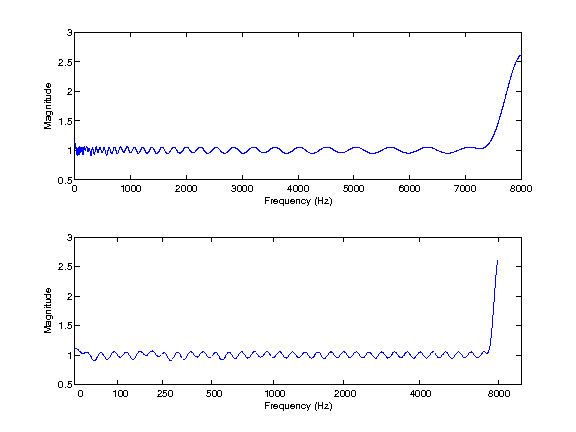
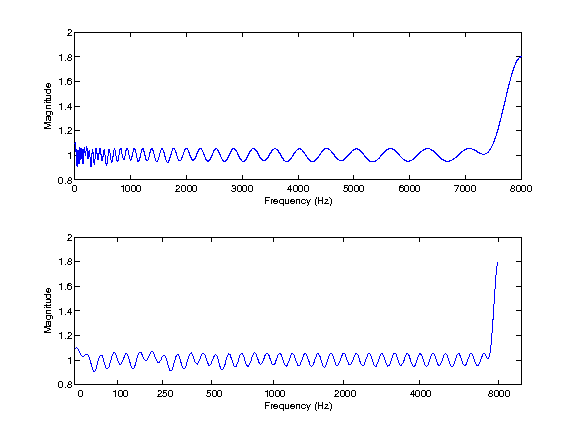
Updated doc for 2.2.0

diff --git a/doc/filterbank/audfilters_code.html b/doc/filterbank/audfilters_code.html
@@ -220,7 +220,10 @@ href="https://cdnjs.cloudflare.com/ajax/libs/bootstrap-select/1.6.5/css/bootstra
 <span class="c">%     Acoustics, Speech, and Signal Processing (ICASSP 2013), pages 498--502,</span>
 <span class="c">%     Vancouver, Canada, May 2013. IEEE.</span>
 <span class="c">%     </span>
-<span class="c">%   [DO NOT FORGET TO ADD NEW REFERENCE]</span>
+<span class="c">%     T. Necciari, N. Holighaus, P. Balazs, Z. Průša, and P. Majdak. Can</span>
+<span class="c">%     frames provide gammatone filter banks with perfect reconstruction?</span>
+<span class="c">%     submitted.</span>
+<span class="c">%     </span>
 <span class="c">%</span>
 <span class="c">%   Url: http://ltfat.github.io/doc/filterbank/audfilters.html</span>
 
@@ -273,8 +276,9 @@ href="https://cdnjs.cloudflare.com/ajax/libs/bootstrap-select/1.6.5/css/bootstra
 <span class="c">% If there is such window, replace cell with function name so that </span>
 <span class="c">% ltfatarghelper does not complain</span>
 <span class="k">if</span> <span class="o">~</span><span class="nb">isempty</span><span class="p">(</span><span class="n">candCellId</span><span class="p">)</span> <span class="o">&amp;&amp;</span> <span class="n">any</span><span class="p">(</span><span class="n">candCellId</span><span class="p">)</span>
-    <span class="n">winCell</span> <span class="p">=</span> <span class="n">varargin</span><span class="p">{</span><span class="n">candCellId</span><span class="p">(</span><span class="k">end</span><span class="p">)};</span>
-    <span class="n">varargin</span><span class="p">{</span><span class="n">candCellId</span><span class="p">}</span> <span class="p">=</span> <span class="p">[];</span>
+    <span class="n">candCellIdLast</span> <span class="p">=</span> <span class="nb">find</span><span class="p">(</span><span class="n">candCellId</span><span class="p">,</span><span class="mi">1</span><span class="p">,</span><span class="s">&#39;last&#39;</span><span class="p">);</span>
+    <span class="n">winCell</span> <span class="p">=</span> <span class="n">varargin</span><span class="p">{</span><span class="n">candCellIdLast</span><span class="p">};</span>
+    <span class="n">varargin</span><span class="p">(</span><span class="n">candCellId</span><span class="p">)</span> <span class="p">=</span> <span class="p">[];</span> <span class="c">% But remove all</span>
     <span class="n">varargin</span><span class="p">{</span><span class="k">end</span><span class="o">+</span><span class="mi">1</span><span class="p">}</span> <span class="p">=</span> <span class="n">winCell</span><span class="p">{</span><span class="mi">1</span><span class="p">};</span>
 <span class="k">end</span>
 
@@ -385,6 +389,10 @@ href="https://cdnjs.cloudflare.com/ajax/libs/bootstrap-select/1.6.5/css/bootstra
 <span class="k">end</span>
 <span class="n">innerChanNum</span> <span class="p">=</span> <span class="n">innerChanNum</span><span class="o">-</span><span class="n">count</span><span class="p">;</span>
 
+<span class="k">if</span> <span class="n">fmax</span> <span class="o">&lt;</span><span class="p">=</span> <span class="n">fmin</span> <span class="o">||</span> <span class="n">fmin</span> <span class="o">&gt;</span> <span class="n">fs</span><span class="o">/</span><span class="mi">4</span> <span class="o">||</span> <span class="n">fmax</span> <span class="o">&lt;</span> <span class="n">fs</span><span class="o">/</span><span class="mi">4</span>
+    <span class="n">error</span><span class="p">([</span><span class="s">&#39;%s: Bad combination of fs, fmax and fmin.&#39;</span><span class="p">],</span><span class="n">upper</span><span class="p">(</span><span class="n">mfilename</span><span class="p">));</span>
+<span class="k">end</span>
+
 <span class="n">fc</span><span class="p">=</span><span class="n">audspace</span><span class="p">(</span><span class="n">fmin</span><span class="p">,</span><span class="n">fmax</span><span class="p">,</span><span class="n">innerChanNum</span><span class="p">,</span><span class="n">flags</span><span class="p">.</span><span class="n">audscale</span><span class="p">).</span><span class="s">&#39;;</span>
 <span class="s">fc = [0;fc;fs/2];</span>
 <span class="s">M2 = innerChanNum+2;</span>
@@ -401,15 +409,15 @@ href="https://cdnjs.cloudflare.com/ajax/libs/bootstrap-select/1.6.5/css/bootstra
     
     <span class="c">% Generate lowpass filter parameters     </span>
     <span class="n">fsupp</span><span class="p">(</span><span class="mi">1</span><span class="p">)</span> <span class="p">=</span> <span class="mi">0</span><span class="p">;</span>
-    <span class="n">fc_temp</span> <span class="p">=</span> <span class="n">max</span><span class="p">(</span><span class="n">audtofreq</span><span class="p">(</span><span class="n">freqtoaud</span><span class="p">(</span><span class="n">fc</span><span class="p">(</span><span class="mi">2</span><span class="p">),</span><span class="n">flags</span><span class="p">.</span><span class="n">audscale</span><span class="p">)</span><span class="o">-</span><span class="n">kv</span><span class="p">.</span><span class="n">spacing</span><span class="p">,</span><span class="n">flags</span><span class="p">.</span><span class="n">audscale</span><span class="p">),</span><span class="mi">0</span><span class="p">);</span>
+    <span class="n">fc_temp</span> <span class="p">=</span> <span class="n">audtofreq</span><span class="p">(</span><span class="n">freqtoaud</span><span class="p">(</span><span class="n">fc</span><span class="p">(</span><span class="mi">2</span><span class="p">),</span><span class="n">flags</span><span class="p">.</span><span class="n">audscale</span><span class="p">)</span><span class="o">-</span><span class="n">kv</span><span class="p">.</span><span class="n">spacing</span><span class="p">,</span><span class="n">flags</span><span class="p">.</span><span class="n">audscale</span><span class="p">);</span>
     <span class="n">fsupp_temp</span> <span class="p">=</span> <span class="n">audfiltbw</span><span class="p">(</span><span class="n">fc_temp</span><span class="p">,</span><span class="n">flags</span><span class="p">.</span><span class="n">audscale</span><span class="p">)</span><span class="o">/</span><span class="n">winbw</span><span class="o">*</span><span class="n">kv</span><span class="p">.</span><span class="n">bwmul</span><span class="p">;</span>
-    <span class="n">aprecise</span><span class="p">(</span><span class="mi">1</span><span class="p">)</span> <span class="p">=</span> <span class="n">max</span><span class="p">(</span><span class="n">fs</span><span class="o">./</span><span class="p">(</span><span class="mi">2</span><span class="o">*</span><span class="n">fc_temp</span><span class="o">+</span><span class="n">fsupp_temp</span><span class="o">*</span><span class="n">kv</span><span class="p">.</span><span class="n">redmul</span><span class="p">),</span><span class="mi">1</span><span class="p">);</span>    
+    <span class="n">aprecise</span><span class="p">(</span><span class="mi">1</span><span class="p">)</span> <span class="p">=</span> <span class="n">max</span><span class="p">(</span><span class="n">fs</span><span class="o">./</span><span class="p">(</span><span class="mi">2</span><span class="o">*</span><span class="n">max</span><span class="p">(</span><span class="n">fc_temp</span><span class="p">,</span><span class="mi">0</span><span class="p">)</span><span class="o">+</span><span class="n">fsupp_temp</span><span class="o">*</span><span class="n">kv</span><span class="p">.</span><span class="n">redmul</span><span class="p">),</span><span class="mi">1</span><span class="p">);</span>    
         
     <span class="c">% Generate highpass filter parameters     </span>
     <span class="n">fsupp</span><span class="p">(</span><span class="k">end</span><span class="p">)</span> <span class="p">=</span> <span class="mi">0</span><span class="p">;</span>
-    <span class="n">fc_temp</span> <span class="p">=</span> <span class="n">min</span><span class="p">(</span><span class="n">audtofreq</span><span class="p">(</span><span class="n">freqtoaud</span><span class="p">(</span><span class="n">fc</span><span class="p">(</span><span class="k">end</span><span class="o">-</span><span class="mi">1</span><span class="p">),</span><span class="n">flags</span><span class="p">.</span><span class="n">audscale</span><span class="p">)</span><span class="o">+</span><span class="n">kv</span><span class="p">.</span><span class="n">spacing</span><span class="p">,</span><span class="n">flags</span><span class="p">.</span><span class="n">audscale</span><span class="p">),</span><span class="n">fs</span><span class="o">/</span><span class="mi">2</span><span class="p">);</span>
+    <span class="n">fc_temp</span> <span class="p">=</span> <span class="n">audtofreq</span><span class="p">(</span><span class="n">freqtoaud</span><span class="p">(</span><span class="n">fc</span><span class="p">(</span><span class="k">end</span><span class="o">-</span><span class="mi">1</span><span class="p">),</span><span class="n">flags</span><span class="p">.</span><span class="n">audscale</span><span class="p">)</span><span class="o">+</span><span class="n">kv</span><span class="p">.</span><span class="n">spacing</span><span class="p">,</span><span class="n">flags</span><span class="p">.</span><span class="n">audscale</span><span class="p">);</span>
     <span class="n">fsupp_temp</span> <span class="p">=</span> <span class="n">audfiltbw</span><span class="p">(</span><span class="n">fc_temp</span><span class="p">,</span><span class="n">flags</span><span class="p">.</span><span class="n">audscale</span><span class="p">)</span><span class="o">/</span><span class="n">winbw</span><span class="o">*</span><span class="n">kv</span><span class="p">.</span><span class="n">bwmul</span><span class="p">;</span>
-    <span class="n">aprecise</span><span class="p">(</span><span class="k">end</span><span class="p">)</span> <span class="p">=</span> <span class="n">max</span><span class="p">(</span><span class="n">fs</span><span class="o">./</span><span class="p">(</span><span class="mi">2</span><span class="o">*</span><span class="p">(</span><span class="n">fc</span><span class="p">(</span><span class="k">end</span><span class="p">)</span><span class="o">-</span><span class="n">fc_temp</span><span class="p">)</span><span class="o">+</span><span class="n">fsupp_temp</span><span class="o">*</span><span class="n">kv</span><span class="p">.</span><span class="n">redmul</span><span class="p">),</span><span class="mi">1</span><span class="p">);</span>
+    <span class="n">aprecise</span><span class="p">(</span><span class="k">end</span><span class="p">)</span> <span class="p">=</span> <span class="n">max</span><span class="p">(</span><span class="n">fs</span><span class="o">./</span><span class="p">(</span><span class="mi">2</span><span class="o">*</span><span class="p">(</span><span class="n">fc</span><span class="p">(</span><span class="k">end</span><span class="p">)</span><span class="o">-</span><span class="n">min</span><span class="p">(</span><span class="n">fc_temp</span><span class="p">,</span><span class="n">fs</span><span class="o">/</span><span class="mi">2</span><span class="p">))</span><span class="o">+</span><span class="n">fsupp_temp</span><span class="o">*</span><span class="n">kv</span><span class="p">.</span><span class="n">redmul</span><span class="p">),</span><span class="mi">1</span><span class="p">);</span>
 <span class="k">else</span>    
     <span class="c">% fsupp_scale is measured on the selected auditory scale</span>
     <span class="c">% The scaling is incorrect, it does not account for the warping (NH:</span>
@@ -445,6 +453,10 @@ href="https://cdnjs.cloudflare.com/ajax/libs/bootstrap-select/1.6.5/css/bootstra
 <span class="c">% Find suitable channel subsampling rates</span>
 <span class="n">aprecise</span><span class="p">(</span><span class="n">ind</span><span class="p">)=</span><span class="n">fs</span><span class="o">./</span><span class="n">fsupp</span><span class="p">(</span><span class="n">ind</span><span class="p">)</span><span class="o">/</span><span class="n">kv</span><span class="p">.</span><span class="n">redmul</span><span class="p">;</span>
 <span class="n">aprecise</span><span class="p">=</span><span class="n">aprecise</span><span class="p">(:);</span>
+
+<span class="k">if</span> <span class="n">any</span><span class="p">(</span><span class="n">aprecise</span><span class="o">&lt;</span><span class="mi">1</span><span class="p">)</span>
+    <span class="n">error</span><span class="p">(</span><span class="s">&#39;%s: Invalid subsampling rates. Decrease redmul.&#39;</span><span class="p">,</span><span class="n">upper</span><span class="p">(</span><span class="n">mfilename</span><span class="p">))</span>
+<span class="k">end</span>
 
 <span class="c">%% Compute the downsampling rate</span>
 <span class="k">if</span> <span class="n">flags</span><span class="p">.</span><span class="n">do_regsampling</span>
@@ -542,12 +554,12 @@ href="https://cdnjs.cloudflare.com/ajax/libs/bootstrap-select/1.6.5/css/bootstra
 <span class="s">    temp_fun = @(L) filterbankresponse(temp_g,1,L);</span>
 <span class="s">    </span>
 <span class="s">    temp_fbresp = @(L) filterbankresponse(g(2:end-1),a(2:end-1,:),L);</span>
-<span class="s">    glow.H = @(L) fftshift(long2fir(...</span>
-<span class="s">                sqrt(postpad(ones(ceil(L/2),1),L).*temp_fun(L) + ...</span>
-<span class="s">                flipud(postpad(ones(L-ceil(L/2),1),L).*circshift(temp_fun(L),-1)) - ...</span>
-<span class="s">                (flipud(postpad(ones(round(L/4)-1,1),L)).*temp_fbresp(L) + ...</span>
-<span class="s">                postpad(ones(round(L/4),1),L).*flipud(temp_fbresp(L)))),...</span>
-<span class="s">                Lw(L)))*scal;</span>
+<span class="s">    glow.H = @(L) fftshift(long2fir(sqrt(max(...</span>
+<span class="s">        postpad(1-min(10.*max((1:floor(L/2)+1).&#39;</span><span class="o">./</span><span class="n">L</span><span class="o">-</span><span class="mi">1</span><span class="o">/</span><span class="mi">4</span><span class="p">,</span><span class="mi">0</span><span class="p">),</span><span class="mi">1</span><span class="p">),</span><span class="n">L</span><span class="p">)</span><span class="o">.*</span> <span class="c">...</span>
+            <span class="p">(</span><span class="n">temp_fun</span><span class="p">(</span><span class="n">L</span><span class="p">)</span> <span class="o">-</span> <span class="nb">flipud</span><span class="p">(</span><span class="nb">circshift</span><span class="p">(</span><span class="n">temp_fbresp</span><span class="p">(</span><span class="n">L</span><span class="p">),</span><span class="o">-</span><span class="mi">1</span><span class="p">)))</span> <span class="o">+</span> <span class="c">...</span>
+        <span class="nb">flipud</span><span class="p">(</span><span class="n">postpad</span><span class="p">(</span><span class="mi">1</span><span class="o">-</span><span class="n">min</span><span class="p">(</span><span class="mf">10.</span><span class="o">*</span><span class="n">max</span><span class="p">((</span><span class="mi">1</span><span class="p">:</span><span class="nb">ceil</span><span class="p">(</span><span class="n">L</span><span class="o">/</span><span class="mi">2</span><span class="p">)</span><span class="o">-</span><span class="mi">1</span><span class="p">).</span><span class="s">&#39;./L-1/4,0),1),L).* ...</span>
+<span class="s">            (circshift(temp_fun(L),-1) - flipud(temp_fbresp(L)))) ...</span>
+<span class="s">        ,0)),Lw(L)))*scal;           </span>
 <span class="s">                    </span>
 <span class="s">    glow.foff = @(L) -floor(Lw(L)/2);</span>
 <span class="s">    glow.realonly = 0;</span>
@@ -556,37 +568,31 @@ href="https://cdnjs.cloudflare.com/ajax/libs/bootstrap-select/1.6.5/css/bootstra
 <span class="s">    </span>
 <span class="s">function ghigh = audhighpassfilter(filterfunc,g,a,fmax,fs,winbw,scal,bwtruncmul,kv,flags)</span>
 <span class="s">    wrap_around = freqtoaud(fs/2,flags.audscale);</span>
-<span class="s">    next_fc = audtofreq(modcent(freqtoaud(fmax,flags.audscale)+kv.spacing,...</span>
-<span class="s">                2*wrap_around),flags.audscale);</span>
+<span class="s">    next_fc = audtofreq(freqtoaud(fmax,flags.audscale)+kv.spacing,...</span>
+<span class="s">                flags.audscale);</span>
 <span class="s">    </span>
 <span class="s">    %Temporary filters are created up to this frequency</span>
-<span class="s">    fc_lim = audtofreq(-freqtoaud(fs/2,&#39;</span><span class="n">erb</span><span class="o">&#39;</span><span class="p">)</span><span class="o">+</span><span class="mi">4</span><span class="p">,</span><span class="s">&#39;erb&#39;</span><span class="p">);</span> 
+<span class="s">    fc_lim = audtofreq(freqtoaud(fs/2,&#39;</span><span class="n">erb</span><span class="o">&#39;</span><span class="p">)</span><span class="o">+</span><span class="mi">4</span><span class="p">,</span><span class="s">&#39;erb&#39;</span><span class="p">);</span> 
 
     <span class="n">temp_fc</span> <span class="p">=</span> <span class="p">[];</span>
     <span class="c">% Temporary center frequencies and bandwidths for lowpass</span>
-    <span class="k">while</span> <span class="p">(</span><span class="n">next_fc</span> <span class="o">&gt;</span> <span class="mi">0</span><span class="p">)</span> <span class="o">||</span> <span class="p">(</span><span class="n">next_fc</span> <span class="o">&lt;</span><span class="p">=</span> <span class="n">fc_lim</span><span class="p">)</span> 
+    <span class="k">while</span> <span class="p">(</span><span class="n">next_fc</span> <span class="o">&lt;</span><span class="p">=</span> <span class="n">fc_lim</span><span class="p">)</span> <span class="c">%(next_fc &gt; 0) || (next_fc &lt;= fc_lim) </span>
         <span class="n">temp_fc</span><span class="p">(</span><span class="k">end</span><span class="o">+</span><span class="mi">1</span><span class="p">)</span> <span class="p">=</span> <span class="n">next_fc</span><span class="p">;</span>
-        <span class="n">next_fc</span> <span class="p">=</span> <span class="n">audtofreq</span><span class="p">(</span><span class="n">modcent</span><span class="p">(</span><span class="n">freqtoaud</span><span class="p">(</span><span class="n">next_fc</span><span class="p">,</span><span class="n">flags</span><span class="p">.</span><span class="n">audscale</span><span class="p">)</span><span class="o">+</span><span class="n">kv</span><span class="p">.</span><span class="n">spacing</span><span class="p">,</span><span class="c">...</span>
-                <span class="mi">2</span><span class="o">*</span><span class="n">wrap_around</span><span class="p">),</span><span class="n">flags</span><span class="p">.</span><span class="n">audscale</span><span class="p">);</span>        
+        <span class="n">next_fc</span> <span class="p">=</span> <span class="n">audtofreq</span><span class="p">(</span><span class="n">freqtoaud</span><span class="p">(</span><span class="n">next_fc</span><span class="p">,</span><span class="n">flags</span><span class="p">.</span><span class="n">audscale</span><span class="p">)</span><span class="o">+</span><span class="n">kv</span><span class="p">.</span><span class="n">spacing</span><span class="p">,</span><span class="c">...</span>
+                            <span class="n">flags</span><span class="p">.</span><span class="n">audscale</span><span class="p">);</span>        
     <span class="k">end</span>
     
     <span class="k">if</span> <span class="n">flags</span><span class="p">.</span><span class="n">do_symmetric</span>
         <span class="n">temp_bw</span><span class="p">=</span><span class="n">audfiltbw</span><span class="p">(</span><span class="nb">abs</span><span class="p">(</span><span class="n">temp_fc</span><span class="p">),</span><span class="n">flags</span><span class="p">.</span><span class="n">audscale</span><span class="p">)</span><span class="o">/</span><span class="n">winbw</span><span class="o">*</span><span class="n">kv</span><span class="p">.</span><span class="n">bwmul</span><span class="p">;</span>
-        <span class="n">plateauWidth</span> <span class="p">=</span> <span class="mi">0</span><span class="p">;</span>
-        <span class="k">if</span> <span class="n">temp_fc</span><span class="p">(</span><span class="mi">1</span><span class="p">)</span> <span class="o">&gt;</span> <span class="mi">0</span>
-            <span class="n">plateauWidth</span> <span class="p">=</span> <span class="n">max</span><span class="p">(</span><span class="mi">2</span><span class="o">*</span><span class="p">(</span><span class="n">fs</span><span class="o">/</span><span class="mi">2</span><span class="o">-</span><span class="n">temp_fc</span><span class="p">(</span><span class="mi">1</span><span class="p">)),</span><span class="mi">0</span><span class="p">);</span>
-        <span class="k">end</span>
+        <span class="n">plateauWidth</span> <span class="p">=</span> <span class="n">max</span><span class="p">(</span><span class="mi">2</span><span class="o">*</span><span class="p">(</span><span class="n">fs</span><span class="o">/</span><span class="mi">2</span><span class="o">-</span><span class="n">temp_fc</span><span class="p">(</span><span class="mi">1</span><span class="p">)),</span><span class="mi">0</span><span class="p">);</span>
         <span class="n">Lw</span> <span class="p">=</span> <span class="p">@(</span><span class="n">L</span><span class="p">)</span> <span class="n">min</span><span class="p">(</span><span class="nb">ceil</span><span class="p">((</span><span class="n">plateauWidth</span><span class="o">+</span><span class="n">temp_bw</span><span class="p">(</span><span class="mi">1</span><span class="p">)</span><span class="o">*</span><span class="n">bwtruncmul</span><span class="p">)</span><span class="o">*</span><span class="n">L</span><span class="o">/</span><span class="n">fs</span><span class="p">),</span><span class="n">L</span><span class="p">);</span>
     <span class="k">else</span>
         <span class="n">fsupp_scale</span><span class="p">=</span><span class="mi">1</span><span class="o">/</span><span class="n">winbw</span><span class="o">*</span><span class="n">kv</span><span class="p">.</span><span class="n">bwmul</span><span class="p">;</span>
         <span class="n">temp_bw</span> <span class="p">=</span> <span class="n">audtofreq</span><span class="p">(</span><span class="n">freqtoaud</span><span class="p">(</span><span class="n">temp_fc</span><span class="p">,</span><span class="n">flags</span><span class="p">.</span><span class="n">audscale</span><span class="p">)</span><span class="o">+</span><span class="n">fsupp_scale</span><span class="o">/</span><span class="mi">2</span><span class="p">,</span><span class="n">flags</span><span class="p">.</span><span class="n">audscale</span><span class="p">)</span><span class="o">-</span><span class="c">...</span>
                   <span class="n">audtofreq</span><span class="p">(</span><span class="n">freqtoaud</span><span class="p">(</span><span class="n">temp_fc</span><span class="p">,</span><span class="n">flags</span><span class="p">.</span><span class="n">audscale</span><span class="p">)</span><span class="o">-</span><span class="n">fsupp_scale</span><span class="o">/</span><span class="mi">2</span><span class="p">,</span><span class="n">flags</span><span class="p">.</span><span class="n">audscale</span><span class="p">);</span>
               
-        <span class="n">temp_low</span> <span class="p">=</span> <span class="n">modcent</span><span class="p">(</span><span class="n">audtofreq</span><span class="p">(</span><span class="n">freqtoaud</span><span class="p">(</span><span class="n">temp_fc</span><span class="p">(</span><span class="mi">1</span><span class="p">),</span><span class="n">flags</span><span class="p">.</span><span class="n">audscale</span><span class="p">)</span><span class="o">-</span><span class="n">fsupp_scale</span><span class="o">/</span><span class="mi">2</span><span class="p">,</span><span class="n">flags</span><span class="p">.</span><span class="n">audscale</span><span class="p">),</span><span class="n">fs</span><span class="p">);</span>
-        <span class="n">Width</span> <span class="p">=</span> <span class="mi">0</span><span class="p">;</span>
-        <span class="k">if</span> <span class="n">temp_low</span> <span class="o">&gt;</span> <span class="mi">0</span>
-            <span class="n">Width</span> <span class="p">=</span> <span class="n">max</span><span class="p">(</span><span class="mi">2</span><span class="o">*</span><span class="p">(</span><span class="n">fs</span><span class="o">/</span><span class="mi">2</span><span class="o">-</span><span class="n">temp_low</span><span class="p">),</span><span class="mi">0</span><span class="p">);</span>
-        <span class="k">end</span>      
+        <span class="n">temp_low</span> <span class="p">=</span> <span class="n">audtofreq</span><span class="p">(</span><span class="n">freqtoaud</span><span class="p">(</span><span class="n">temp_fc</span><span class="p">(</span><span class="mi">1</span><span class="p">),</span><span class="n">flags</span><span class="p">.</span><span class="n">audscale</span><span class="p">)</span><span class="o">-</span><span class="n">fsupp_scale</span><span class="o">/</span><span class="mi">2</span><span class="p">,</span><span class="n">flags</span><span class="p">.</span><span class="n">audscale</span><span class="p">);</span>
+        <span class="n">Width</span> <span class="p">=</span> <span class="n">max</span><span class="p">(</span><span class="mi">2</span><span class="o">*</span><span class="p">(</span><span class="n">fs</span><span class="o">/</span><span class="mi">2</span><span class="o">-</span><span class="n">temp_low</span><span class="p">),</span><span class="mi">0</span><span class="p">);</span>
         <span class="n">Lw</span> <span class="p">=</span> <span class="p">@(</span><span class="n">L</span><span class="p">)</span> <span class="n">min</span><span class="p">(</span><span class="nb">ceil</span><span class="p">(</span><span class="n">Width</span><span class="o">*</span><span class="n">L</span><span class="o">/</span><span class="n">fs</span><span class="p">),</span><span class="n">L</span><span class="p">);</span>
     <span class="k">end</span>
     
@@ -597,12 +603,12 @@ href="https://cdnjs.cloudflare.com/ajax/libs/bootstrap-select/1.6.5/css/bootstra
     
     <span class="n">temp_fun</span> <span class="p">=</span> <span class="p">@(</span><span class="n">L</span><span class="p">)</span> <span class="n">filterbankresponse</span><span class="p">(</span><span class="n">temp_g</span><span class="p">,</span><span class="mi">1</span><span class="p">,</span><span class="n">L</span><span class="p">);</span>
     <span class="n">temp_fbresp</span> <span class="p">=</span> <span class="p">@(</span><span class="n">L</span><span class="p">)</span> <span class="n">filterbankresponse</span><span class="p">(</span><span class="n">g</span><span class="p">(</span><span class="mi">2</span><span class="p">:</span><span class="k">end</span><span class="o">-</span><span class="mi">1</span><span class="p">),</span><span class="n">a</span><span class="p">(</span><span class="mi">2</span><span class="p">:</span><span class="k">end</span><span class="o">-</span><span class="mi">1</span><span class="p">,:),</span><span class="n">L</span><span class="p">);</span>
-    <span class="n">ghigh</span><span class="p">.</span><span class="n">H</span> <span class="p">=</span> <span class="p">@(</span><span class="n">L</span><span class="p">)</span> <span class="n">fftshift</span><span class="p">(</span><span class="n">long2fir</span><span class="p">(</span><span class="c">...</span>
-                     <span class="n">fftshift</span><span class="p">(</span><span class="nb">sqrt</span><span class="p">(</span><span class="n">postpad</span><span class="p">(</span><span class="nb">ones</span><span class="p">(</span><span class="nb">ceil</span><span class="p">(</span><span class="n">L</span><span class="o">/</span><span class="mi">2</span><span class="p">),</span><span class="mi">1</span><span class="p">),</span><span class="n">L</span><span class="p">)</span><span class="o">.*</span><span class="n">temp_fun</span><span class="p">(</span><span class="n">L</span><span class="p">)</span> <span class="o">+</span> <span class="c">...</span>
-                     <span class="nb">flipud</span><span class="p">(</span><span class="n">postpad</span><span class="p">(</span><span class="nb">ones</span><span class="p">(</span><span class="n">L</span><span class="o">-</span><span class="nb">ceil</span><span class="p">(</span><span class="n">L</span><span class="o">/</span><span class="mi">2</span><span class="p">),</span><span class="mi">1</span><span class="p">),</span><span class="n">L</span><span class="p">)</span><span class="o">.*</span><span class="nb">circshift</span><span class="p">(</span><span class="n">temp_fun</span><span class="p">(</span><span class="n">L</span><span class="p">),</span><span class="o">-</span><span class="mi">1</span><span class="p">))</span> <span class="o">-</span> <span class="c">...</span>
-                     <span class="p">(</span><span class="n">postpad</span><span class="p">([</span><span class="nb">zeros</span><span class="p">(</span><span class="nb">ceil</span><span class="p">(</span><span class="n">L</span><span class="o">/</span><span class="mi">2</span><span class="p">),</span><span class="mi">1</span><span class="p">);</span><span class="nb">ones</span><span class="p">(</span><span class="nb">round</span><span class="p">(</span><span class="n">L</span><span class="o">/</span><span class="mi">4</span><span class="p">),</span><span class="mi">1</span><span class="p">)],</span><span class="n">L</span><span class="p">)</span><span class="o">.*</span><span class="n">temp_fbresp</span><span class="p">(</span><span class="n">L</span><span class="p">)</span> <span class="o">+</span> <span class="c">...</span>
-                     <span class="nb">flipud</span><span class="p">(</span><span class="n">postpad</span><span class="p">([</span><span class="nb">zeros</span><span class="p">(</span><span class="n">L</span><span class="o">-</span><span class="nb">ceil</span><span class="p">(</span><span class="n">L</span><span class="o">/</span><span class="mi">2</span><span class="p">),</span><span class="mi">1</span><span class="p">);</span><span class="nb">ones</span><span class="p">(</span><span class="nb">round</span><span class="p">(</span><span class="n">L</span><span class="o">/</span><span class="mi">4</span><span class="p">),</span><span class="mi">1</span><span class="p">)],</span><span class="n">L</span><span class="p">)</span><span class="o">.*</span><span class="n">temp_fbresp</span><span class="p">(</span><span class="n">L</span><span class="p">))))),</span><span class="c">...</span>
-                     <span class="n">Lw</span><span class="p">(</span><span class="n">L</span><span class="p">)))</span><span class="o">*</span><span class="n">scal</span><span class="p">;</span>
+    <span class="n">ghigh</span><span class="p">.</span><span class="n">H</span> <span class="p">=</span> <span class="p">@(</span><span class="n">L</span><span class="p">)</span> <span class="n">fftshift</span><span class="p">(</span><span class="n">long2fir</span><span class="p">(</span><span class="n">fftshift</span><span class="p">(</span><span class="nb">sqrt</span><span class="p">(</span><span class="n">max</span><span class="p">(</span><span class="c">...</span>
+        <span class="n">postpad</span><span class="p">(</span><span class="n">min</span><span class="p">(</span><span class="mf">10.</span><span class="o">*</span><span class="n">max</span><span class="p">((</span><span class="mi">1</span><span class="p">:</span><span class="nb">floor</span><span class="p">(</span><span class="n">L</span><span class="o">/</span><span class="mi">2</span><span class="p">)</span><span class="o">+</span><span class="mi">1</span><span class="p">).</span><span class="s">&#39;./L-1/4,0),1),L).* ...</span>
+<span class="s">            (temp_fun(L) - flipud(circshift(temp_fbresp(L),-1))) + ...</span>
+<span class="s">        flipud(postpad(min(10.*max((1:ceil(L/2)-1).&#39;</span><span class="o">./</span><span class="n">L</span><span class="o">-</span><span class="mi">1</span><span class="o">/</span><span class="mi">4</span><span class="p">,</span><span class="mi">0</span><span class="p">),</span><span class="mi">1</span><span class="p">),</span><span class="n">L</span><span class="p">)</span><span class="o">.*</span> <span class="c">...</span>
+            <span class="p">(</span><span class="nb">circshift</span><span class="p">(</span><span class="n">temp_fun</span><span class="p">(</span><span class="n">L</span><span class="p">),</span><span class="o">-</span><span class="mi">1</span><span class="p">)</span> <span class="o">-</span> <span class="nb">flipud</span><span class="p">(</span><span class="n">temp_fbresp</span><span class="p">(</span><span class="n">L</span><span class="p">))))</span> <span class="c">...</span>
+        <span class="p">,</span><span class="mi">0</span><span class="p">))),</span><span class="n">Lw</span><span class="p">(</span><span class="n">L</span><span class="p">)))</span><span class="o">*</span><span class="n">scal</span><span class="p">;</span>
     
     <span class="n">ghigh</span><span class="p">.</span><span class="n">foff</span> <span class="p">=</span> <span class="p">@(</span><span class="n">L</span><span class="p">)</span> <span class="nb">ceil</span><span class="p">(</span><span class="n">L</span><span class="o">/</span><span class="mi">2</span><span class="p">)</span><span class="o">-</span><span class="nb">floor</span><span class="p">(</span><span class="n">Lw</span><span class="p">(</span><span class="n">L</span><span class="p">)</span><span class="o">/</span><span class="mi">2</span><span class="p">)</span><span class="o">-</span><span class="mi">1</span><span class="p">;</span>
     <span class="n">ghigh</span><span class="p">.</span><span class="n">realonly</span> <span class="p">=</span> <span class="mi">0</span><span class="p">;</span>

diff --git a/doc/base/ltfatstart_code.html b/doc/base/ltfatstart_code.html
@@ -101,6 +101,8 @@ href="https://cdnjs.cloudflare.com/ajax/libs/bootstrap-select/1.6.5/css/bootstra
 <span class="c">%   AUTHOR : Peter L. Søndergaard, Zdenek Prusa</span>
 <span class="c">%   TESTING: NA</span>
 
+<span class="c">%% PKG_ADD: ltfatstart(0); </span>
+
 <span class="n">do_java</span> <span class="p">=</span> <span class="mi">1</span><span class="p">;</span>
 <span class="n">ltfatstartprint</span><span class="p">=</span><span class="mi">1</span><span class="p">;</span>
 <span class="k">if</span> <span class="n">nargin</span><span class="o">&gt;</span><span class="mi">0</span>
@@ -136,11 +138,18 @@ href="https://cdnjs.cloudflare.com/ajax/libs/bootstrap-select/1.6.5/css/bootstra
 <span class="c">% Kill the function name from the path.</span>
 <span class="n">basepath</span><span class="p">=</span><span class="n">basepath</span><span class="p">(</span><span class="mi">1</span><span class="p">:</span><span class="k">end</span><span class="o">-</span><span class="mi">13</span><span class="p">);</span>
 
-<span class="c">% add the base path</span>
-<span class="n">addpath</span><span class="p">(</span><span class="n">basepath</span><span class="p">);</span>
+<span class="n">pathCell</span> <span class="p">=</span> <span class="n">regexp</span><span class="p">(</span><span class="n">path</span><span class="p">,</span> <span class="n">pathsep</span><span class="p">,</span> <span class="s">&#39;split&#39;</span><span class="p">);</span>
+<span class="k">if</span> <span class="n">ispc</span>  <span class="c">% Windows is not case-sensitive</span>
+   <span class="n">bponPath</span> <span class="p">=</span> <span class="n">any</span><span class="p">(</span><span class="n">strcmpi</span><span class="p">(</span><span class="n">basepath</span><span class="p">,</span> <span class="n">pathCell</span><span class="p">));</span>
+<span class="k">else</span>
+   <span class="n">bponPath</span> <span class="p">=</span> <span class="n">any</span><span class="p">(</span><span class="n">strcmp</span><span class="p">(</span><span class="n">basepath</span><span class="p">,</span> <span class="n">pathCell</span><span class="p">));</span>
+<span class="k">end</span>
+
+<span class="k">if</span> <span class="o">~</span><span class="n">bponPath</span> <span class="c">% To avoid recursion during pkg load</span>
+    <span class="n">addpath</span><span class="p">(</span><span class="n">basepath</span><span class="p">);</span>
+<span class="k">end</span>
 
 <span class="n">bp</span><span class="p">=</span><span class="n">basepath</span><span class="p">;</span>
-
  
 <span class="c">% Load the version number</span>
 <span class="p">[</span><span class="n">FID</span><span class="p">,</span> <span class="n">MSG</span><span class="p">]</span> <span class="p">=</span> <span class="n">fopen</span> <span class="p">([</span><span class="n">bp</span><span class="p">,</span><span class="n">filesep</span><span class="p">,</span><span class="s">&#39;ltfat_version&#39;</span><span class="p">],</span><span class="s">&#39;r&#39;</span><span class="p">);</span>

diff --git a/doc/base/ltfatstop_code.html b/doc/base/ltfatstop_code.html
@@ -41,7 +41,7 @@ href="https://cdnjs.cloudflare.com/ajax/libs/bootstrap-select/1.6.5/css/bootstra
 
         <h1 class="title">LTFATSTOP - Stops the LTFAT toolbox</h1>
 <h2>Program code:</h2>
-<div class="highlight"><pre><span class="k">function</span><span class="w"> </span><span class="nf">ltfatstop</span><span class="p">()</span><span class="w"></span>
+<div class="highlight"><pre><span class="k">function</span><span class="w"> </span><span class="nf">ltfatstop</span><span class="p">(</span>varargin<span class="p">)</span><span class="w"></span>
 <span class="c">%LTFATSTOP   Stops the LTFAT toolbox</span>
 <span class="c">%   Usage:  ltfatstop;</span>
 <span class="c">%</span>
@@ -68,6 +68,10 @@ href="https://cdnjs.cloudflare.com/ajax/libs/bootstrap-select/1.6.5/css/bootstra
 <span class="c">% along with this program.  If not, see &lt;http://www.gnu.org/licenses/&gt;.</span>
 
 <span class="c">%   AUTHOR : Peter L. Søndergaard, Zdenek Prusa </span>
+
+<span class="c">%% PKG_DEL: ltfatstop(&#39;notbasepath&#39;)</span>
+
+<span class="n">do_removebp</span> <span class="p">=</span> <span class="o">~</span><span class="n">any</span><span class="p">(</span><span class="n">strcmpi</span><span class="p">(</span><span class="s">&#39;notbasepath&#39;</span><span class="p">,</span><span class="n">varargin</span><span class="p">));</span>
 
 <span class="n">dirlist</span> <span class="p">=</span> <span class="p">{};</span>
 <span class="n">jarsubpath</span> <span class="p">=</span> <span class="p">[</span><span class="s">&#39;blockproc&#39;</span><span class="p">,</span> <span class="n">filesep</span><span class="p">(),</span> <span class="s">&#39;java&#39;</span><span class="p">,</span> <span class="n">filesep</span><span class="p">(),</span> <span class="s">&#39;blockproc.jar&#39;</span><span class="p">];</span>
@@ -124,7 +128,7 @@ href="https://cdnjs.cloudflare.com/ajax/libs/bootstrap-select/1.6.5/css/bootstra
 <span class="k">end</span>
 
 <span class="c">% This can actually remove user hardcoded path to LTFAT&#39;s root.</span>
-<span class="k">if</span> <span class="n">onPath</span>
+<span class="k">if</span> <span class="n">onPath</span> <span class="o">&amp;&amp;</span> <span class="n">do_removebp</span>
     <span class="n">rmpath</span><span class="p">(</span><span class="n">pkg_folder</span><span class="p">);</span>
 <span class="k">end</span>
 

diff --git a/doc/filterbank/audfilters.html b/doc/filterbank/audfilters.html
@@ -250,7 +250,7 @@ filterbankfreqz(g,a,L,fs,'plot','linabs','posfreq');
 <pre class="literal-block">
 ans =
 
-     8.378659081353900e-15
+     8.263681075103251e-15
 </pre>
 <img alt="audfilters_2_1.png" class="align-center" src="audfilters_2_1.png" />
 <img alt="audfilters_2_2.png" class="align-center" src="audfilters_2_2.png" />
